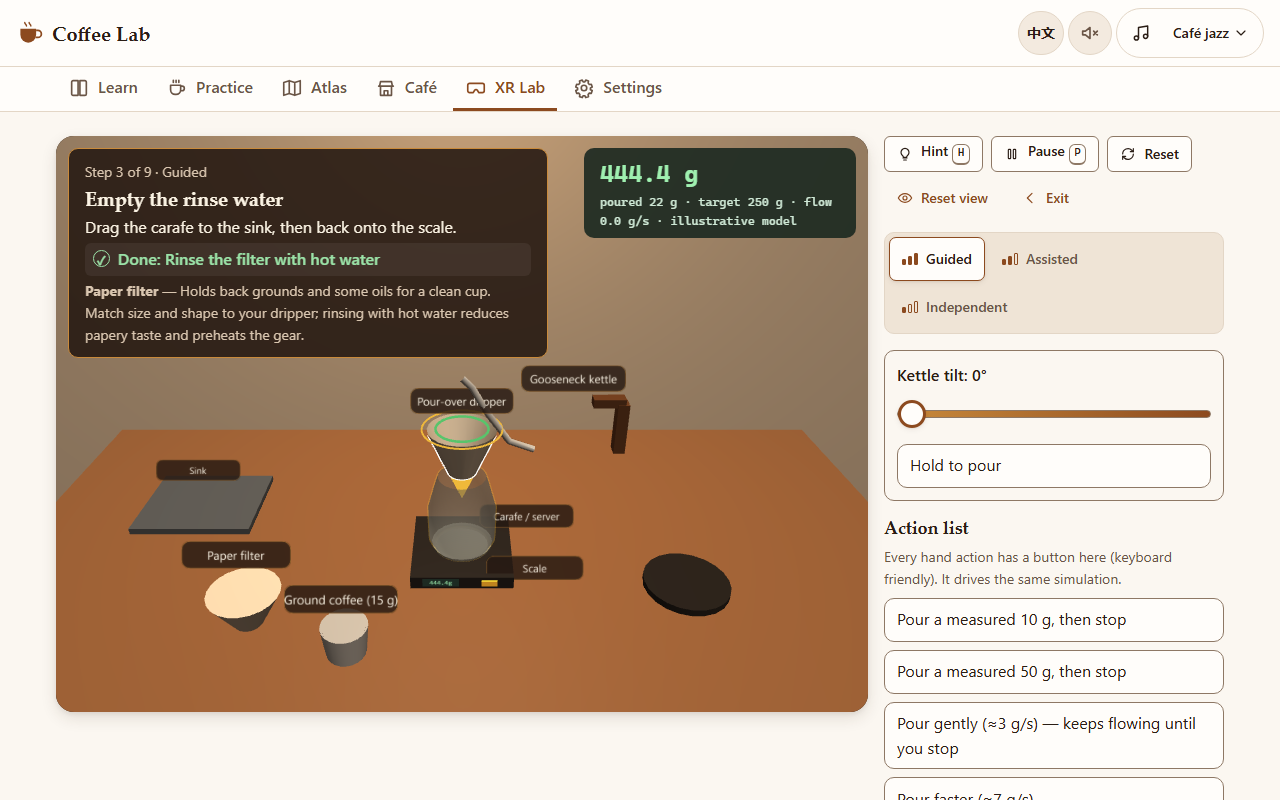
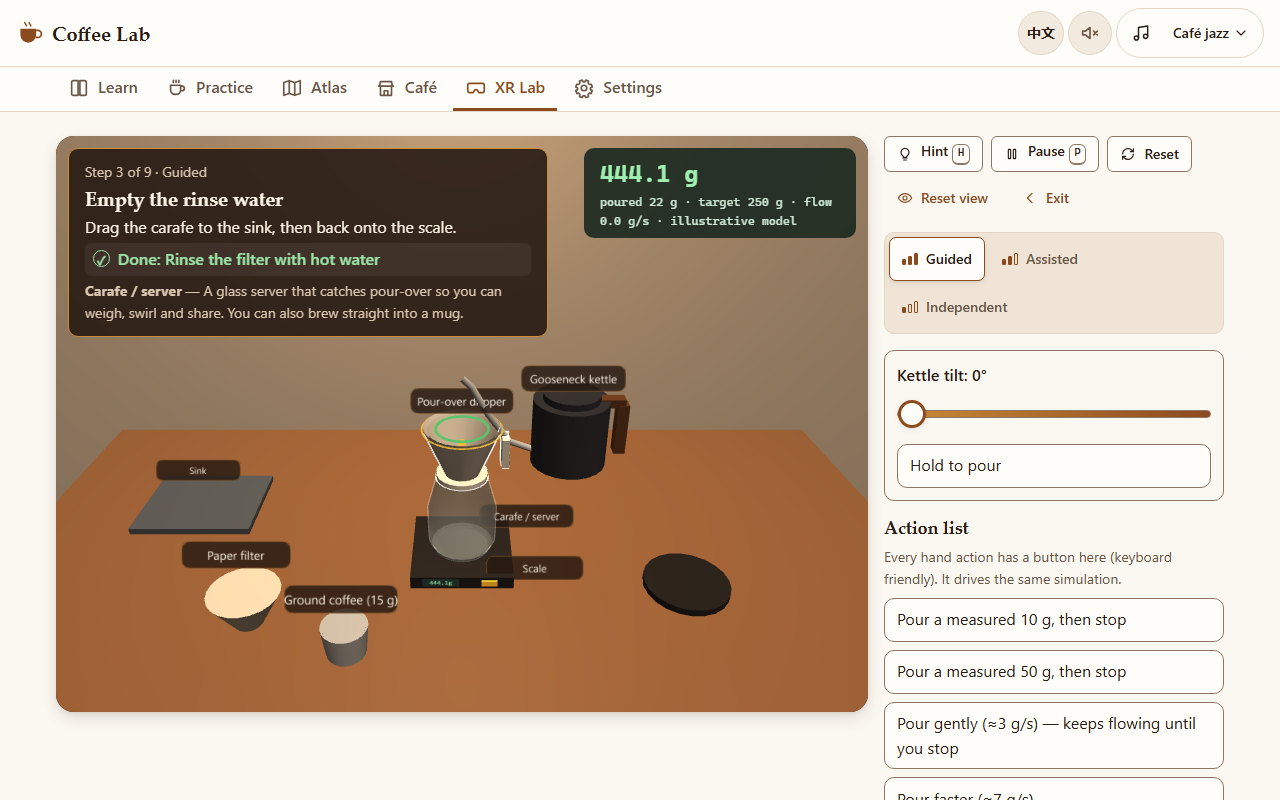
fix(xr): kettle body, dripper, portafilter basket, machine trim, grinder fork and shelf jars drawn ~0.9 m off
User report: the gooseneck kettle in the pour-over 3D scene had no body (only spout + handle).
Cause: Babylon's Mesh.MergeMeshes bakes each source's WORLD matrix into the vertices; the scene merged parts that were
already parented, then parented the merged mesh again, so the station transform (counter height ~0.92 m) was applied
twice. Fix: src/xr/scene/merge.ts mergeUnder() detaches parts first, merges, then parents; used at every merge site.

Tests: new SceneHandle.bounds() test hook (station-local AABB of actual geometry; project() only sees pivots) and
tests/e2e/xr-geometry.spec.ts — failed before (kettle body 0.92 m above its base), passes after for pour-over and
espresso props. Typecheck OK; unit 518/518; full e2e 278 passed / 16 viewport skips / 0 failed. Refreshed XR 3D
screenshots.

Claude-Session: https://claude.ai/code/session_013xbic1BhDWdw1EApgVFjFS

Changed region(s): [[0.0312, 0.3438, 0.5, 0.625], [0.5, 0.1875, 0.5312, 0.2188]]

diff --git a/tests/e2e/xr-geometry.spec.ts b/tests/e2e/xr-geometry.spec.ts
@@ -1,0 +1,78 @@
+/**
+ * 3D geometry sanity: merged props must be drawn where their parts belong.
+ * Regression (user report 2026-11-10, "gooseneck kettle has no body"): Babylon's Mesh.MergeMeshes bakes each part's
+ * WORLD transform into the vertices; re-parenting the merged mesh applied the station transform a second time, so the
+ * kettle body, dripper, portafilter basket, machine trim, grinder fork and shelf jars were drawn ~1 m away.
+ * project() only checks pivots, so this spec checks the actual geometry via the bounds() test hook.
+ */
+import { expect, test, type Page } from '@playwright/test';
+
+type Box = { min: [number, number, number]; max: [number, number, number] };
+
+test.describe('XR 3D props are drawn where they belong', () => {
+  test.describe.configure({ mode: 'serial', timeout: 240_000 });
+  test.skip(({ isMobile }) => isMobile, 'geometry does not depend on the viewport; one software-WebGL scene per run is enough');
+
+  async function open3d(page: Page, id: string) {
+    await page.goto(`/?xrtest#/xr?mission=${id}`);
+    await page.getByTestId('xr-play-3d').click();
+    await expect(page.getByTestId('xr-canvas')).toBeVisible();
+    await page.waitForFunction(() => !!(window as unknown as { __coffeeLabXr?: unknown }).__coffeeLabXr, null, { timeout: 90_000 });
+  }
+
+  /** Bounds of the first mesh name that exists (names differ before/after the fix). */
+  async function bounds(page: Page, ...names: string[]): Promise<Box> {
+    const b = await page.evaluate((ns) => {
+      const hook = (window as unknown as { __coffeeLabXr: { bounds(n: string): Box | null } }).__coffeeLabXr;
+      for (const n of ns) {
+        const r = hook.bounds(n);
+        if (r) return r;
+      }
+      return null;
+    }, names);
+    expect(b, `mesh ${names.join(' | ')} exists`).not.toBeNull();
+    return b!;
+  }
+  const centre = (b: Box) => b.min.map((v, i) => (v + b.max[i]!) / 2) as [number, number, number];
+
+  test('pour-over: kettle body sits on its base between spout and handle; dripper sits on the carafe', async ({ page }) => {
+    await open3d(page, 'pourover-bloom');
+    const base = await bounds(page, 'kettle-base');
+    const body = await bounds(page, 'kettle-body', 'kettle-body_merged');
+    const handle = await bounds(page, 'kettle-handle', 'kettle-handle-a_merged');
+    const spout = await bounds(page, 'kettle-spout');
+    expect(Math.abs(centre(body)[0] - centre(base)[0]), 'kettle body centred on its base (x)').toBeLessThan(0.05);
+    expect(Math.abs(centre(body)[2] - centre(base)[2]), 'kettle body centred on its base (z)').toBeLessThan(0.05);
+    expect(Math.abs(body.min[1] - base.max[1]), 'kettle body rests on its base (y)').toBeLessThan(0.03);
+    expect(body.min[0], 'body is right of the spout start').toBeGreaterThan(spout.min[0]);
+    expect(body.max[0], 'body is left of the handle').toBeLessThan(handle.max[0]);
+
+    const glass = await bounds(page, 'carafe-glass');
+    const dripper = await bounds(page, 'dripper-body', 'dripper-ring_merged');
+    expect(Math.abs(centre(dripper)[0] - centre(glass)[0]), 'dripper centred on carafe (x)').toBeLessThan(0.03);
+    expect(Math.abs(centre(dripper)[2] - centre(glass)[2]), 'dripper centred on carafe (z)').toBeLessThan(0.03);
+    expect(Math.abs(dripper.min[1] - glass.max[1]), 'dripper sits on the carafe rim (y)').toBeLessThan(0.03);
+  });
+
+  test('espresso: machine trim, grinder fork, portafilter basket and shelf jars sit on their parts', async ({ page }) => {
+    await open3d(page, 'espresso-first-shot');
+    const machine = await bounds(page, 'machine-body');
+    const trim = await bounds(page, 'machine-steel');
+    expect(Math.abs(trim.max[1] - machine.max[1]), 'machine top tray sits on the machine').toBeLessThan(0.03);
+    expect(trim.min[1], 'machine steel starts above the counter').toBeGreaterThan(-0.01);
+
+    const grinder = await bounds(page, 'grinder-body');
+    const fork = await bounds(page, 'grinder-steel');
+    expect(Math.abs(centre(fork)[0] - centre(grinder)[0]), 'grinder fork under the grinder (x)').toBeLessThan(0.1);
+    expect(fork.max[1], 'grinder fork below the grinder top').toBeLessThan(grinder.max[1]);
+
+    const pfHandle = await bounds(page, 'pf-handle');
+    const pfSteel = await bounds(page, 'pf-steel');
+    const d = Math.hypot(...centre(pfSteel).map((v, i) => v - centre(pfHandle)[i]!));
+    expect(d, 'portafilter basket is attached to its handle').toBeLessThan(0.15);
+
+    const shelf = await bounds(page, 'shelf');
+    const jars = await bounds(page, 'shelf-jars', 'jar-0_merged');
+    expect(Math.abs(jars.min[1] - shelf.max[1]), 'jars stand on the shelf').toBeLessThan(0.03);
+  });
+});

diff --git a/src/xr/scene/props.ts b/src/xr/scene/props.ts
@@ -11,6 +11,7 @@ import type { Scene } from '@babylonjs/core/scene';
 import type { ButtonId, InspectableId, ItemId } from '../mission/types';
 import type { Materials, MatName } from './materials';
 import { BUTTON_POS, ZONE_POS, type Vec3 } from './layout';
+import { mergeUnder } from './merge';
 
 export type PickMeta =
   | { kind: 'item'; id: ItemId }
@@ -75,10 +76,7 @@ export function buildEspressoProps(scene: Scene, mats: Materials, root: Transfor
     );
   /** Merge same-material static meshes into one draw call. */
   const merge = (name: string, meshes: Mesh[], meta?: PickMeta): Mesh => {
-    const parent = meshes[0]!.parent;
-    const merged = Mesh.MergeMeshes(meshes, true, true)!;
-    merged.name = name;
-    merged.parent = parent;
+    const merged = mergeUnder(name, meshes, meshes[0]!.parent as TransformNode | null);
     return track(merged, meta);
   };
 
@@ -202,9 +200,7 @@ function buildPortafilter(scene: Scene, mats: Materials, parent: TransformNode, 
   neck.rotation.x = Math.PI / 2;
   const spout = mk(MeshBuilder.CreateCylinder('pf-spout', { diameterTop: 0.024, diameterBottom: 0.014, height: 0.022, tessellation: 12 }, scene), 0, -0.026, 0);
   const lugs = mk(MeshBuilder.CreateBox('pf-lugs', { width: 0.094, height: 0.008, depth: 0.014 }, scene), 0, 0.011, 0);
-  const steel = Mesh.MergeMeshes([holder, neck, spout, lugs], true, true)!;
-  steel.name = 'pf-steel';
-  steel.parent = root;
+  const steel = mergeUnder('pf-steel', [holder, neck, spout, lugs], root);
   steel.material = mats.steel;
   const handle = mk(MeshBuilder.CreateCylinder('pf-handle', { diameterTop: 0.024, diameterBottom: 0.03, height: 0.12, tessellation: 12 }, scene), 0, -0.006, -0.125);
   handle.rotation.x = Math.PI / 2;
@@ -231,9 +227,7 @@ function buildTamper(scene: Scene, mats: Materials, parent: TransformNode, track
   stem.position.y = 0.046;
   const knob = MeshBuilder.CreateSphere('tamper-knob', { diameter: 0.04, segments: 10 }, scene);
   knob.position.y = 0.082;
-  const handle = Mesh.MergeMeshes([stem, knob], true, true)!;
-  handle.name = 'tamper-handle';
-  handle.parent = root;
+  const handle = mergeUnder('tamper-handle', [stem, knob], root);
   handle.material = mats.woodDark;
   for (const m of [base, handle]) track(m, meta);
   return { root, meshes: [base, handle] };
@@ -295,8 +289,7 @@ export function buildRoom(scene: Scene, mats: Materials, station: TransformNode)
     j.parent = station;
     return j;
   });
-  const jarMesh = Mesh.MergeMeshes(jars, true, true)!;
-  jarMesh.parent = station;
+  const jarMesh = mergeUnder('shelf-jars', jars, station);
   jarMesh.material = mats.beans;
 
   const cord = MeshBuilder.CreateCylinder('lamp-cord', { diameter: 0.006, height: 0.9, tessellation: 6 }, scene);

diff --git a/src/xr/scene/pouroverStation.ts b/src/xr/scene/pouroverStation.ts
@@ -27,6 +27,7 @@ import { createTag } from './panels';
 import { createRuntime, pickable, type Rt, type Station } from './runtime';
 import { makeArrow } from './espressoStation';
 import { nearestZone, type Vec3 } from './layout';
+import { mergeUnder } from './merge';
 
 type Meta = { kind: 'item'; id: PourItem } | { kind: 'button'; id: 'tare' } | { kind: 'part'; id: PourPart };
 
@@ -131,8 +132,7 @@ function buildPouroverStation(rt: Rt): Station {
   const handleBox = MeshBuilder.CreateBox('dripper-handle', { width: 0.012, height: 0.05, depth: 0.03, sideOrientation: Mesh.DOUBLESIDE }, scene);
   handleBox.parent = dripper;
   handleBox.position.set(0.07, 0.05, 0);
-  const dripperMesh = Mesh.MergeMeshes([ring, cone, handleBox], true, true)!;
-  dripperMesh.parent = dripper;
+  const dripperMesh = mergeUnder('dripper-body', [ring, cone, handleBox], dripper);
   dripperMesh.material = mats.ceramic;
   tag(dripperMesh, { kind: 'item', id: 'carafe' });
   const bed = cyl('grounds-bed', { dt: 0.075, db: 0.038, h: 0.032 }, dripper, 0.03);
@@ -170,8 +170,7 @@ function buildPouroverStation(rt: Rt): Station {
   body.position.x = KETTLE_BODY.x;
   const lid = cyl('kettle-lid', { d: 0.09, h: 0.012 }, kettle, -0.03);
   lid.position.x = KETTLE_BODY.x;
-  const kettleBody = Mesh.MergeMeshes([body, lid], true, true)!;
-  kettleBody.parent = kettle;
+  const kettleBody = mergeUnder('kettle-body', [body, lid], kettle);
   kettleBody.material = mats.kettle;
   tag(kettleBody, { kind: 'item', id: 'kettle' });
   const spout = MeshBuilder.CreateTube(
@@ -196,8 +195,7 @@ function buildPouroverStation(rt: Rt): Station {
   hA.position.set(0.25, -0.085, 0);
   const hB = MeshBuilder.CreateBox('kettle-handle-b', { width: 0.05, height: 0.014, depth: 0.02 }, scene);
   hB.position.set(0.228, -0.04, 0);
-  const handle = Mesh.MergeMeshes([hA, hB], true, true)!;
-  handle.parent = kettle;
+  const handle = mergeUnder('kettle-handle', [hA, hB], kettle);
   handle.material = mats.woodDark;
   tag(handle, { kind: 'item', id: 'kettle' });
   const base = cyl('kettle-base', { d: 0.14, h: 0.012 }, root, 0.006);

diff --git a/src/xr/scene/runtime.ts b/src/xr/scene/runtime.ts
@@ -512,6 +512,22 @@ export async function createRuntime(opts: SceneOptions, buildStation: (rt: Rt) =
       const rect = canvas.getBoundingClientRect();
       return { x: rect.left + (p.x / w) * rect.width, y: rect.top + (p.y / h) * rect.height };
     },
+    bounds(meshName) {
+      const mesh = scene.getMeshByName(meshName);
+      if (!mesh) return null;
+      mesh.computeWorldMatrix(true);
+      const inv = root.computeWorldMatrix(true).clone().invert();
+      const min = [Infinity, Infinity, Infinity] as [number, number, number];
+      const max = [-Infinity, -Infinity, -Infinity] as [number, number, number];
+      for (const corner of mesh.getBoundingInfo().boundingBox.vectorsWorld) {
+        const l = Vector3.TransformCoordinates(corner, inv);
+        [l.x, l.y, l.z].forEach((c, i) => {
+          min[i] = Math.min(min[i], c);
+          max[i] = Math.max(max[i], c);
+        });
+      }
+      return { min, max };
+    },
     stats: () => ({
       meshes: scene.meshes.length,
       activeMeshes: scene.getActiveMeshes().length,

diff --git a/src/xr/scene/merge.ts b/src/xr/scene/merge.ts
@@ -1,0 +1,18 @@
+import { Mesh } from '@babylonjs/core/Meshes/mesh';
+import type { TransformNode } from '@babylonjs/core/Meshes/transformNode';
+
+/**
+ * Merge static parts into one mesh (one draw call) that lives under `parent`.
+ *
+ * Babylon's Mesh.MergeMeshes bakes each source's WORLD matrix into the vertices. If the sources are already parented
+ * and the merged mesh is then parented again, the parent chain (e.g. the station's counter height) is applied twice and
+ * the geometry is drawn far from where it belongs (bug: gooseneck kettle body ~0.9 m above its base). So: detach every
+ * part first — its position/rotation/scaling are kept as values relative to `parent` — merge, then parent the result.
+ */
+export function mergeUnder(name: string, parts: Mesh[], parent: TransformNode | null): Mesh {
+  for (const p of parts) p.parent = null;
+  const merged = Mesh.MergeMeshes(parts, true, true)!;
+  merged.name = name;
+  merged.parent = parent;
+  return merged;
+}

diff --git a/src/xr/scene/espressoStation.ts b/src/xr/scene/espressoStation.ts
@@ -27,6 +27,7 @@ import { buildEspressoProps, type PickMeta } from './props';
 import { createTag } from './panels';
 import { createRuntime, pickable, type Rt, type Station } from './runtime';
 import { BASKET_TOP_OFFSET, BUTTON_POS, PART_TAG_POS, ZONE_POS, ZONE_YAW, nearestZone, type Vec3 } from './layout';
+import { mergeUnder } from './merge';
 
 const DRAG_Y: Record<ItemId, number> = { portafilter: 0.17, cup: 0.1, tamper: 0.1 };
 const LERP_RATE = 14;
@@ -580,9 +581,7 @@ export function makeArrow(rt: Rt): Mesh {
   cone.rotation.x = Math.PI;
   const shaft = MeshBuilder.CreateCylinder('arrow-shaft', { diameter: 0.012, height: 0.05, tessellation: 8 }, rt.scene);
   shaft.position.y = 0.045;
-  const m = Mesh.MergeMeshes([cone, shaft], true, true)!;
-  m.name = 'arrow';
-  m.parent = rt.root;
+  const m = mergeUnder('arrow', [cone, shaft], rt.root);
   m.material = rt.mats.arrow;
   m.isPickable = false;
   m.isVisible = false;

diff --git a/src/xr/mission/core.ts b/src/xr/mission/core.ts
@@ -121,6 +121,11 @@ export interface SceneHandle {
   stats(): { meshes: number; activeMeshes: number; drawCalls: number; fps: number };
   /** Test/diagnostic hook: client coordinates of a named target (optionally at a station-local height). */
   project(target: string, atLocalY?: number): { x: number; y: number } | null;
+  /**
+   * Test/diagnostic hook: station-local bounding box (metres, counter top = y 0) of a mesh's actual geometry, by mesh
+   * name. Unlike project() (pivots), this catches geometry drawn away from its pivot, e.g. double-applied transforms.
+   */
+  bounds?(meshName: string): { min: [number, number, number]; max: [number, number, number] } | null;
   dispose(): void;
 }
 
